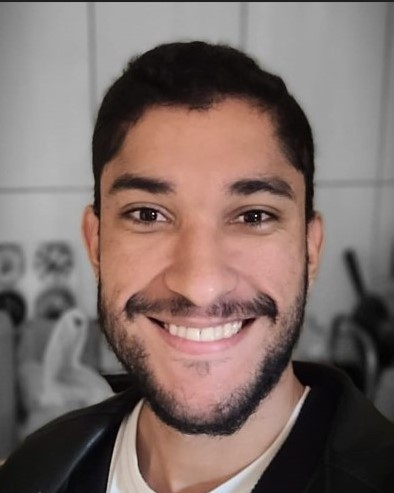
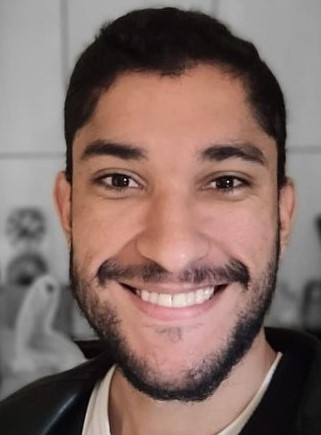
Testando ajustes tamanhos das fotos cv

diff --git a/styles.css b/styles.css
@@ -741,18 +741,7 @@ footer {
 /* Aplicar espaçamento entre header e div id=ladoalado */
 
 .h1-cv {
-    padding: 2rem;
-    font-size: 3vw;
-    /*tamanho da fonte responsivo */
-    letter-spacing: 5px;
-    /*Espaçamento horizontal entre caracteres*/
-    font-weight: 500;
-    /*Largura*/
-}
-
-.h3-cv {
-    font-size: 2vw;
-    text-align: center;
+    padding: 20px;
 }
 
 /*Aplicado display flex para organização das caixas, space-around para deixar espaço dividido igualmente com margens uniformes */
@@ -769,14 +758,8 @@ footer {
     border-style: inset;
     border-color: rgb(71, 28, 170);
     border-radius: 40%;
-<<<<<<< HEAD
-    width: 12vw;
-    /*Responsivo*/
-=======
-    text-align: center;
-    width: 12vw;
->>>>>>> 6879b5be29cc1ee66ef7399ad8795de9bed5b3af
-    height: 100%;
+    width: 150px;
+    height: 150px;
 }
 
 /*Estilizado  imagens dentro da UL tamanho altura e largura*/
@@ -810,7 +793,6 @@ footer {
     display: flex;
     flex-direction: row;
     justify-content: space-around;
-    align-items: center;
 }
 
 /*Estilizado tamanho fonte footer*/
@@ -827,6 +809,7 @@ footer {
 }
 
 .btn-cv {
+
     background-color: #7d7dee;
     border-radius: 10px;
     max-width: 150px;
